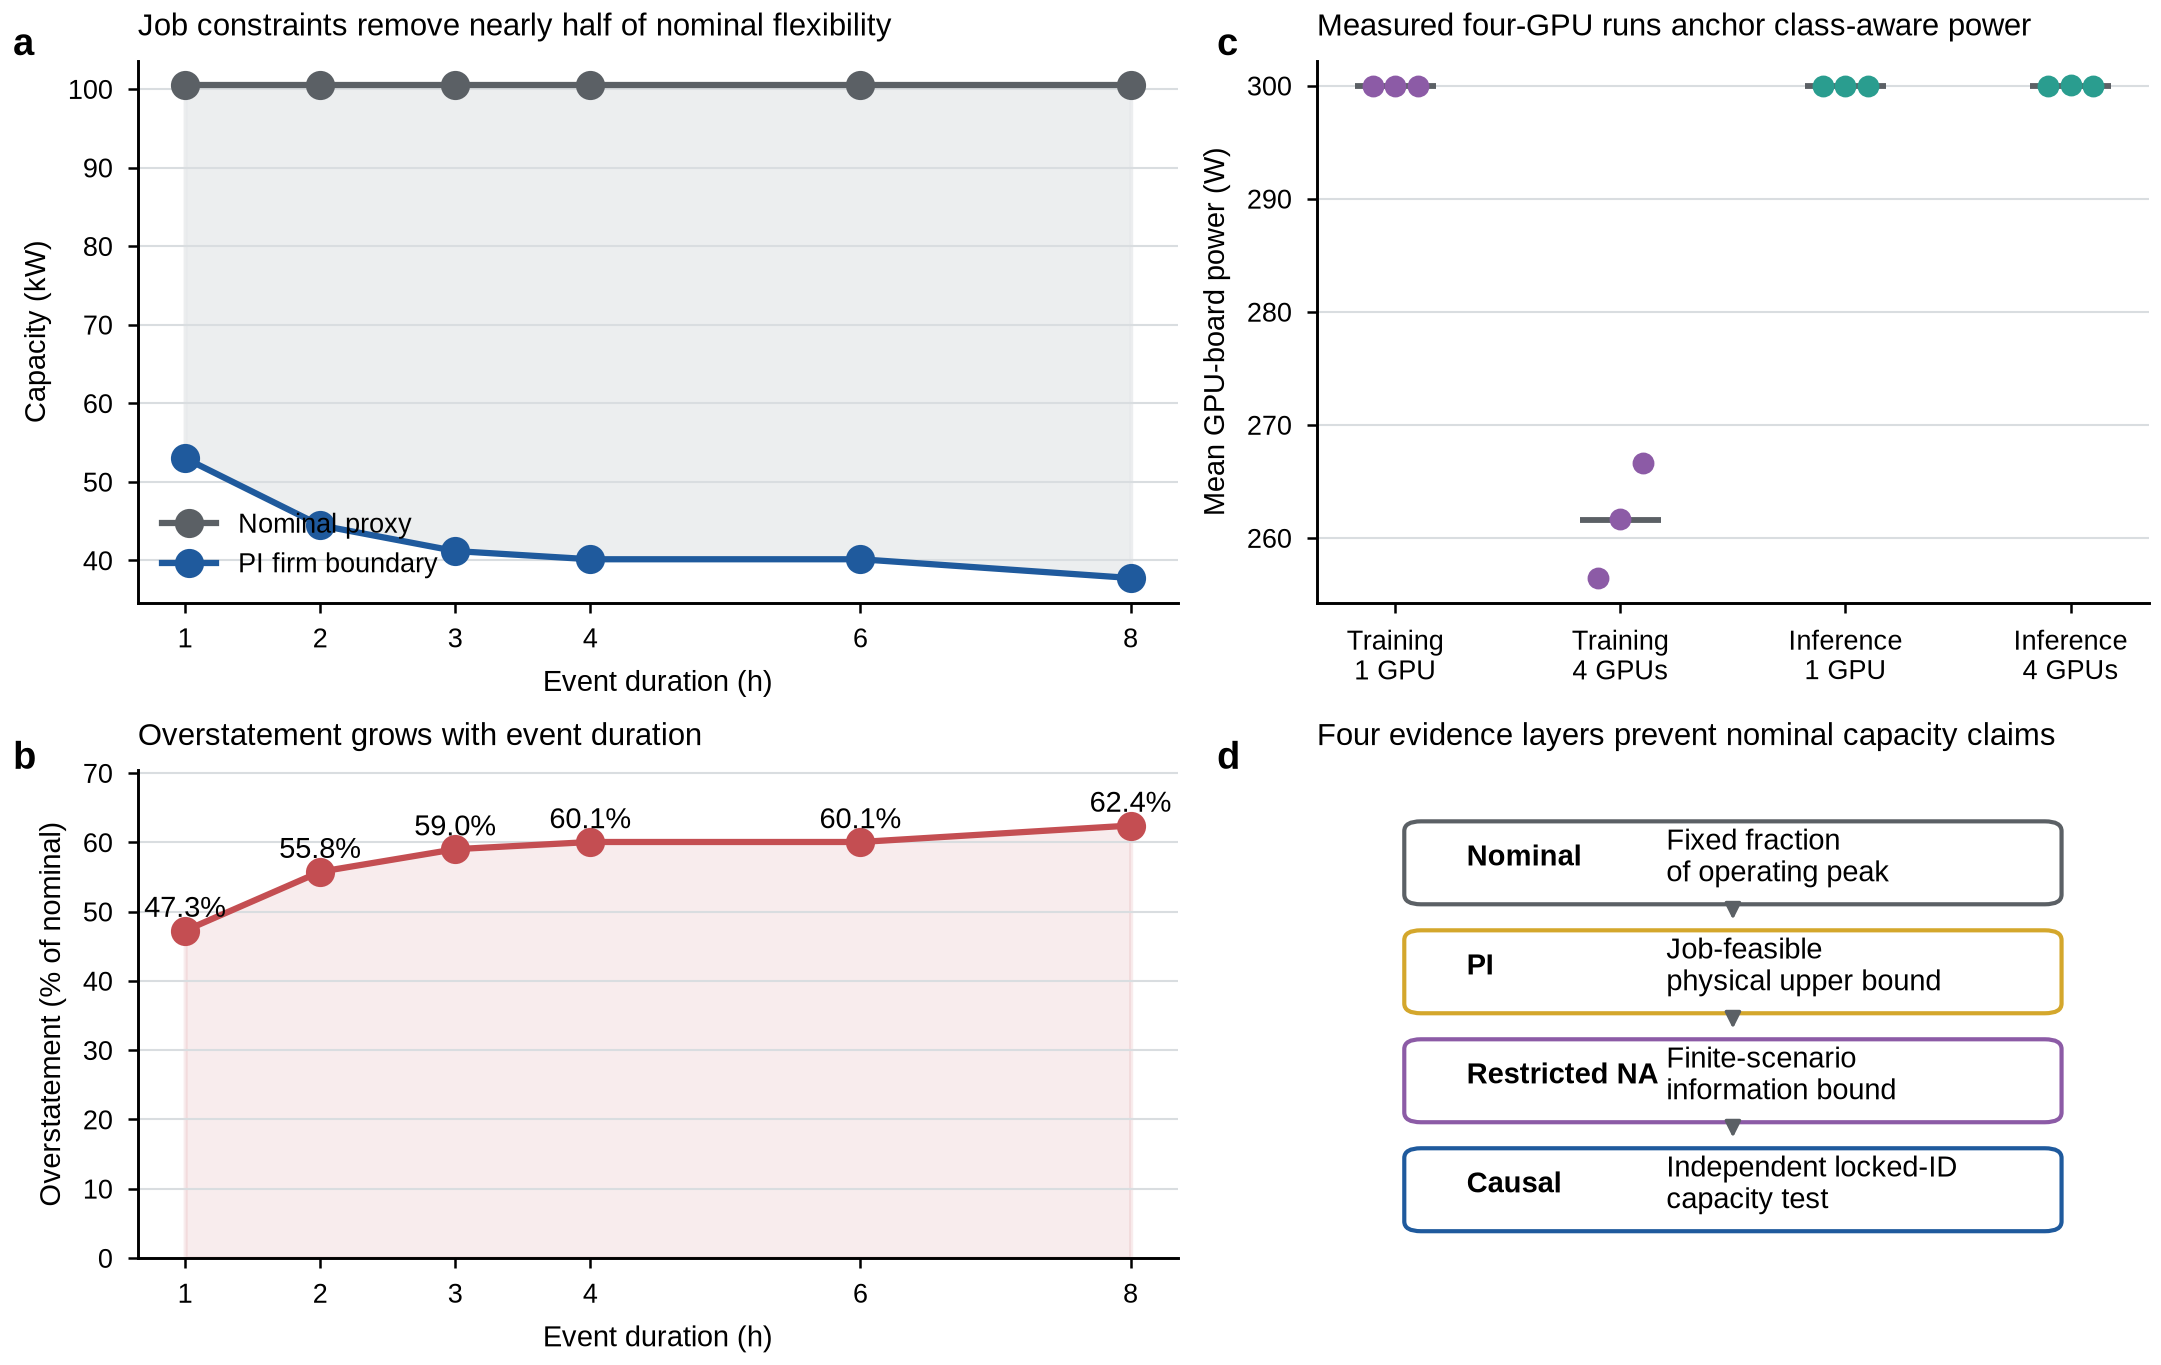
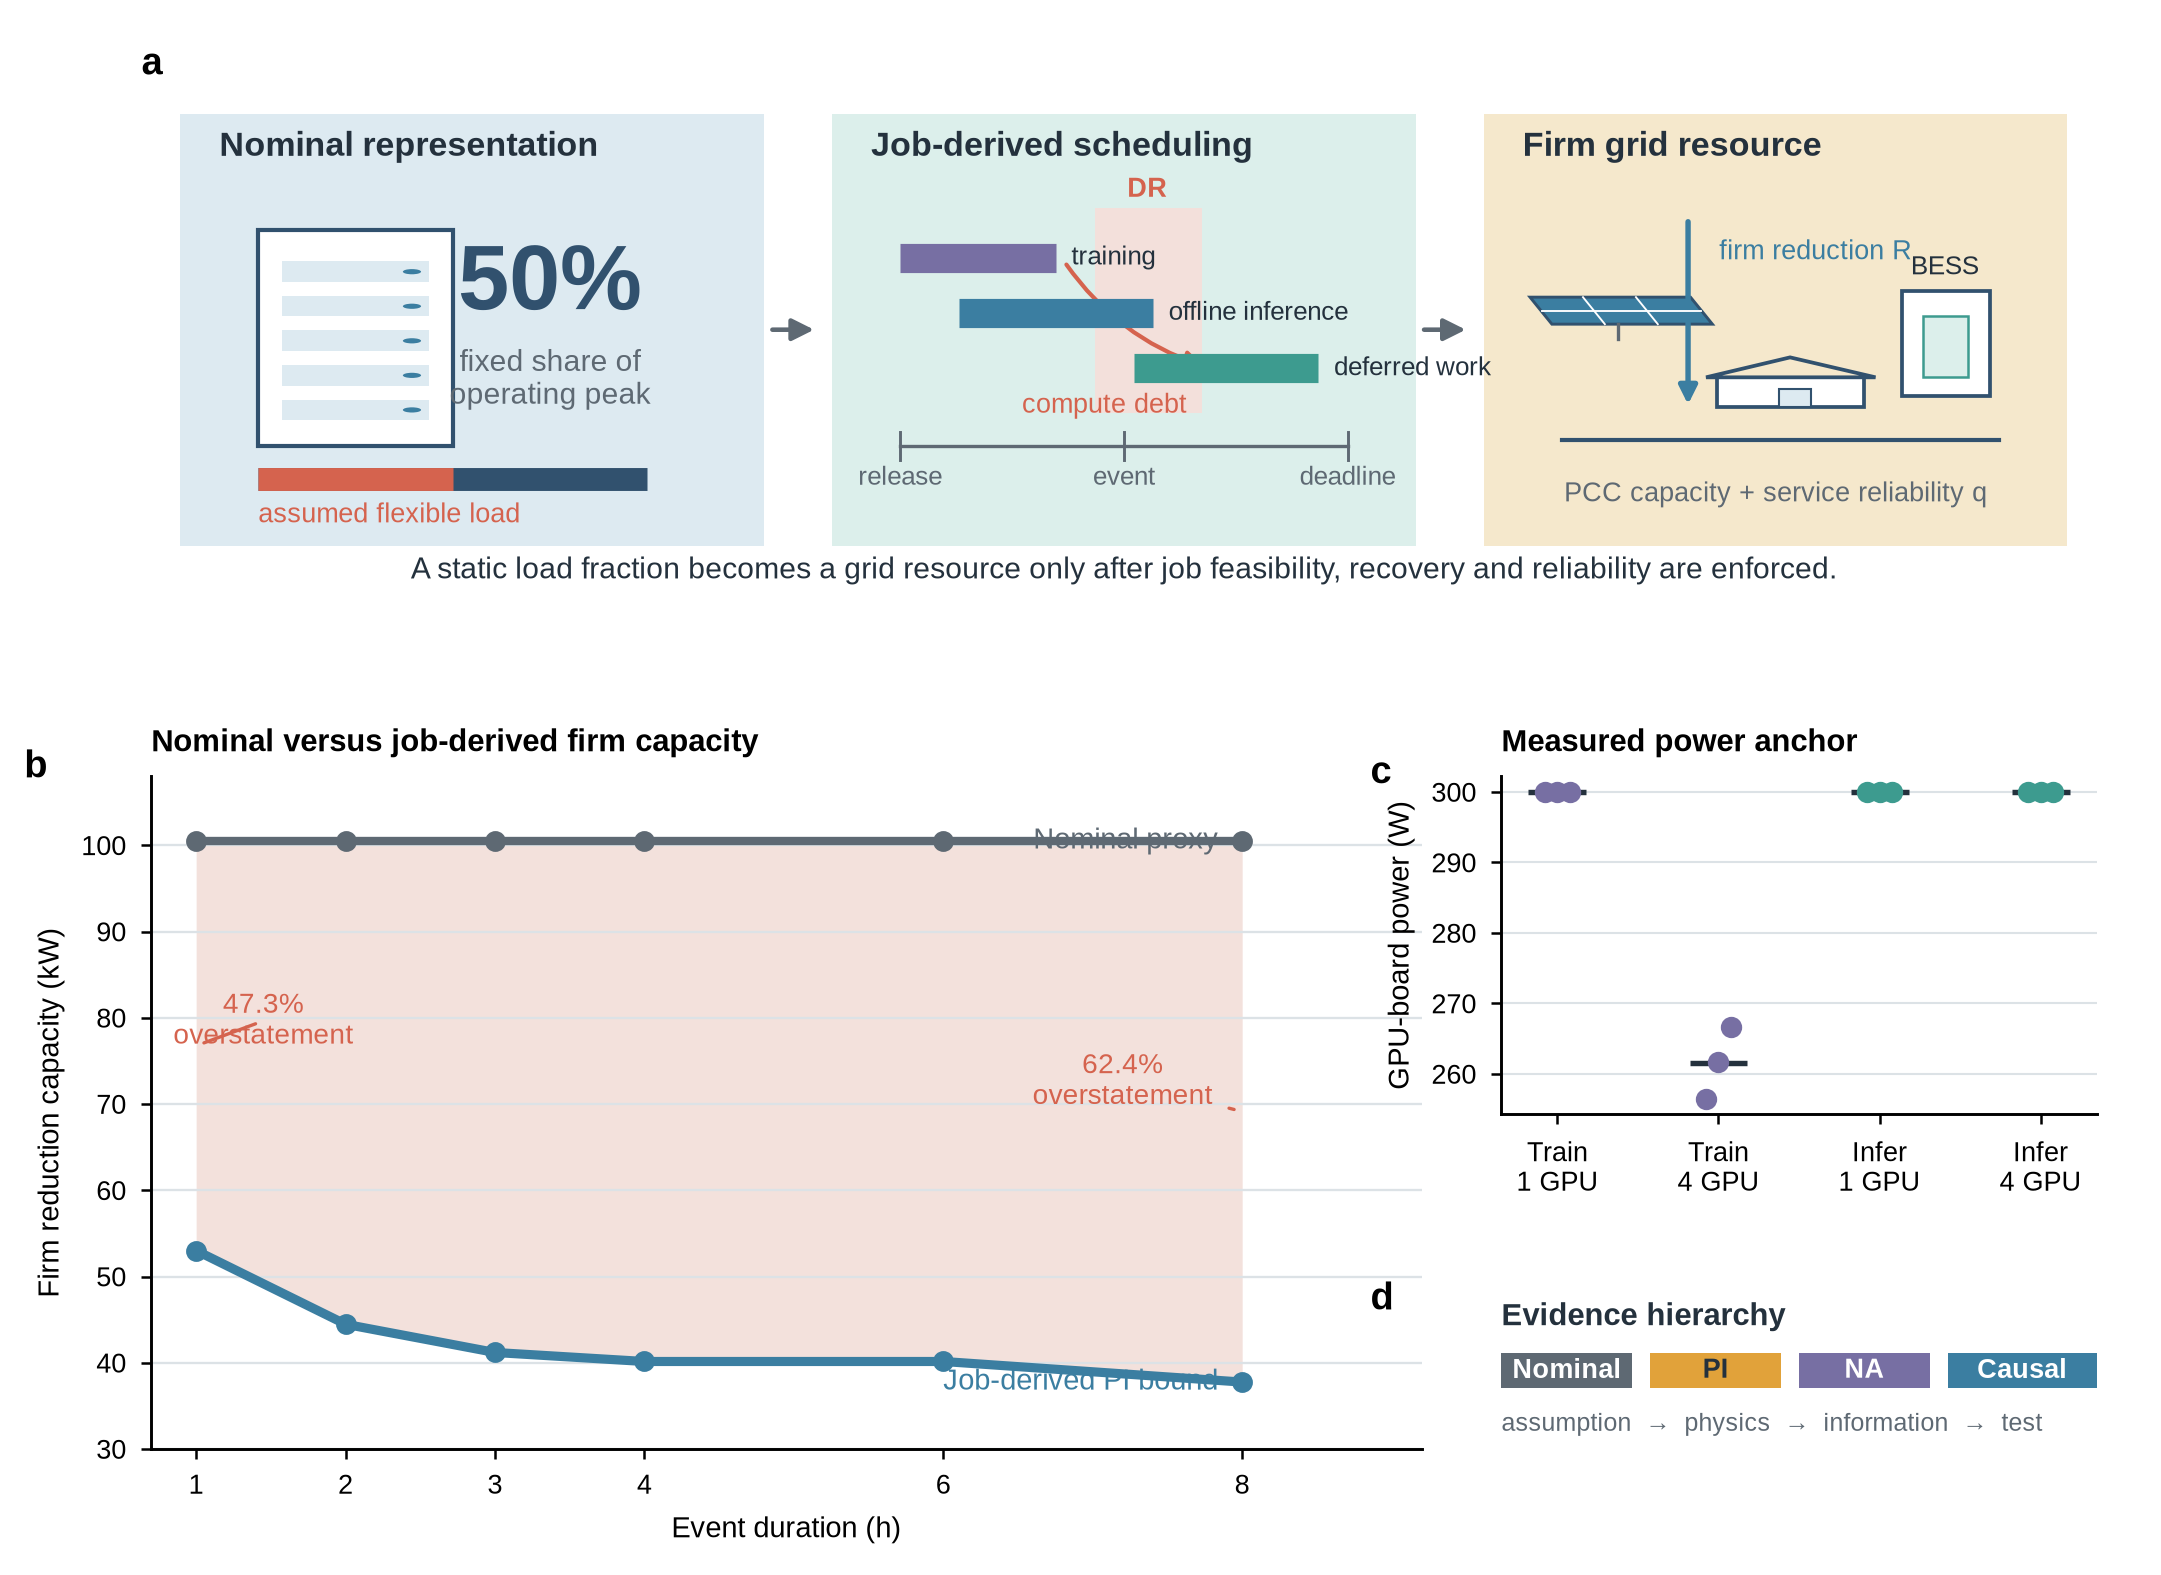
refresh reference-led figure previews

diff --git a/docs/nature-mainline-figure-preview.md b/docs/nature-mainline-figure-preview.md
@@ -1,12 +1,12 @@
-# Nature Communications mainline figure previews
+# Nature Communications reference-led mainline figure previews
 
-> **Status:** manuscript-review previews generated from the hash-verified Source Data bundle. These PNG files are for rapid review on GitHub; the reproducible PDF, SVG and 600-dpi TIFF exports remain release artifacts rather than tracked repository files.
+> **Status:** reference-led manuscript-review previews generated from the hash-verified Source Data bundle. These PNG files are for rapid review on GitHub; the reproducible PDF, SVG and 600-dpi TIFF exports remain release artifacts rather than tracked repository files.
 
-The figures below report planning bounds, causal certification and mechanism diagnostics under different evidentiary meanings. They should be interpreted together with the claim boundaries shown under each figure.
+The figures below use an asymmetric Nature Communications visual grammar: one dominant narrative or quantitative panel, compact supporting evidence, low-saturation colour, direct labels and explicit white space. They report planning bounds, causal certification and mechanism diagnostics under different evidentiary meanings and should be interpreted together with the claim boundaries shown under each figure.
 
 ## Figure 1 | Nominal flexibility versus the job-derived boundary
 
-![Figure 1: nominal flexibility, job-derived firm boundary, hardware calibration and evidence layers](figures/nature_mainline_v1/figure_1_nominal_job_derived_gap.png)
+![Figure 1: schematic-led nominal flexibility, job-derived scheduling, firm boundary, hardware anchor and evidence layers](figures/nature_mainline_v1/figure_1_nominal_job_derived_gap.png)
 
 **Main claim:** A fixed nominal flexibility fraction substantially overstates the job-derived firm boundary across all tested event durations.
 
@@ -30,7 +30,7 @@ The figures below report planning bounds, causal certification and mechanism dia
 
 ## Figure 4 | Community hosting capacity and resource interactions
 
-![Figure 4: hosting capacity gains and interactions among AI flexibility, PV and battery storage](figures/nature_mainline_v1/figure_4_hosting_capacity_interactions.png)
+![Figure 4: validation hosting-capacity dumbbell, independent paired gains and interactions among AI flexibility, PV and battery storage](figures/nature_mainline_v1/figure_4_hosting_capacity_interactions.png)
 
 **Main claim:** Workload flexibility increases simulated community hosting capacity, but its interaction with PV and battery storage is non-additive.
 
